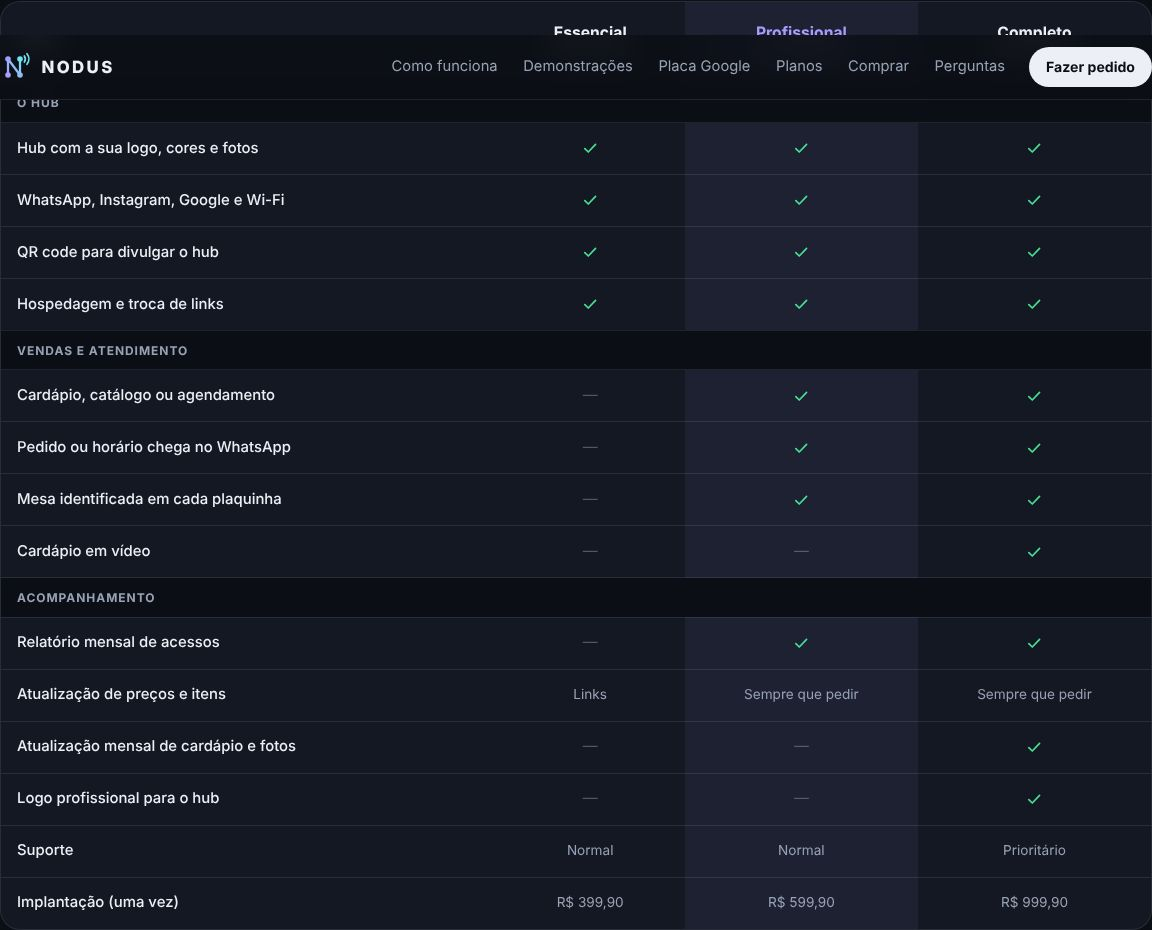
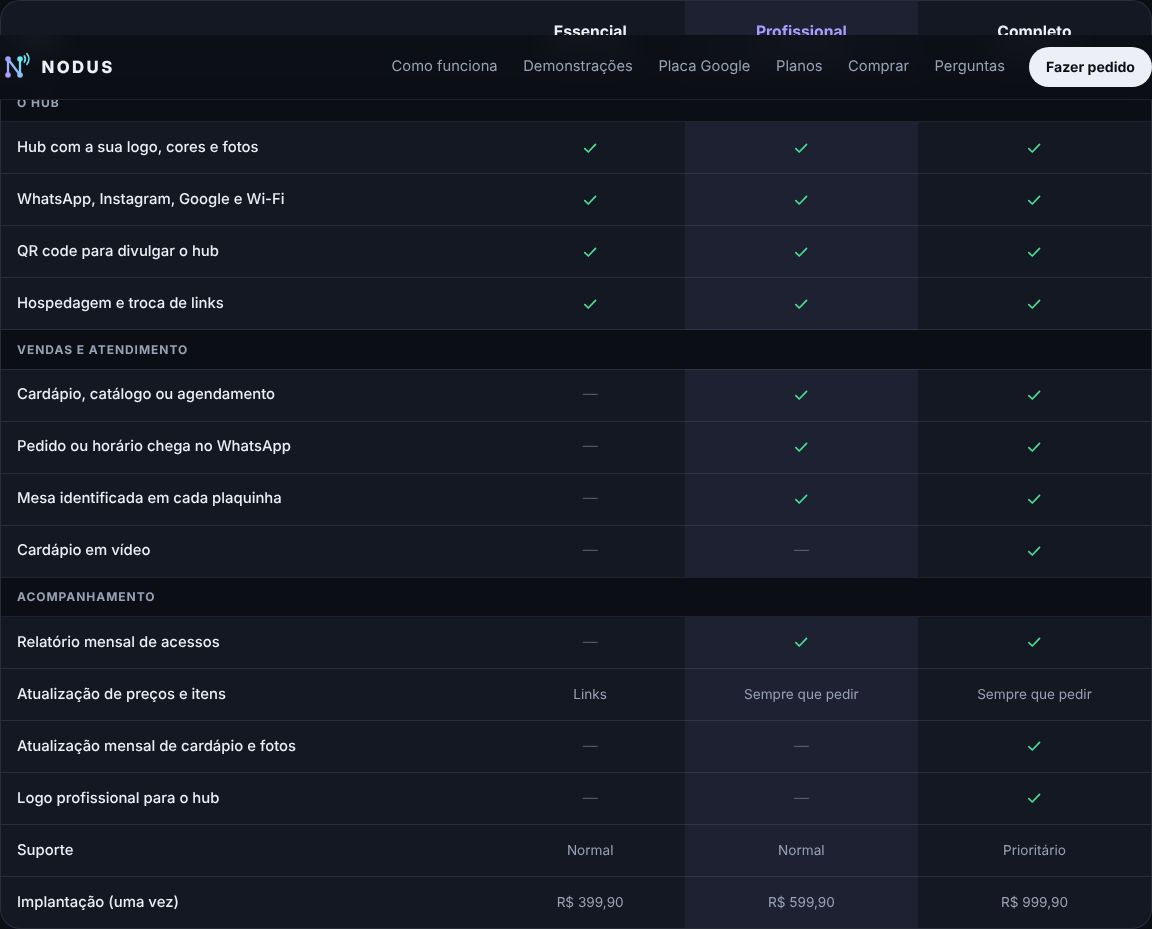
Remove a arte da plaquinha de mesa (arte ainda não finalizada)
Claude-Session: https://claude.ai/code/session_01SbL5BZc9wFFV6NVM2izEHm

diff --git a/index.html b/index.html
@@ -232,13 +232,7 @@ p{margin:0}
 .placa-g .lista svg{color:var(--ok)}
 .placa-g .preco-p{margin-top:1.6rem;font-size:1.05rem}
 .placa-g .preco-p b{white-space:nowrap;font-size:1.6rem;letter-spacing:-.02em;font-variant-numeric:tabular-nums}
-.placa-g .mesa-b{margin-top:4.5rem;padding-top:4rem;border-top:1px solid var(--linha);grid-template-columns:minmax(0,1.1fr) minmax(0,.9fr)}
-.foto-mesa{margin:0;border-radius:.9rem;overflow:hidden;box-shadow:0 24px 60px rgba(0,0,0,.5),0 0 0 1px rgba(255,255,255,.08);background:#fffdf0}
-.foto-mesa img{width:100%;height:auto;display:block}
-.mesa-b h3{font-size:clamp(1.4rem,3vw,1.9rem);margin-top:.5rem;letter-spacing:-.02em}
-.mesa-b p{color:var(--mudo);margin-top:.8rem;font-size:1.02rem;max-width:32rem}
-.mesa-b .preco-m{color:var(--texto);font-weight:600}
-@media(max-width:860px){.placa-g .miolo{grid-template-columns:1fr;gap:2.5rem}.vitrine{order:-1}.placa-g .mesa-b{margin-top:3rem;padding-top:3rem;gap:1.8rem}}
+@media(max-width:860px){.placa-g .miolo{grid-template-columns:1fr;gap:2.5rem}.vitrine{order:-1}}
 
 .rodape{border-top:1px solid var(--linha);padding-block:2.2rem calc(2.2rem + env(safe-area-inset-bottom,0px));color:var(--mudo);font-size:.88rem}
 .rodape .miolo{display:flex;flex-wrap:wrap;gap:1rem 2rem;align-items:center;justify-content:space-between}
@@ -345,16 +339,6 @@ p{margin:0}
       <div class="vitrine">
         <div class="foto-placa" id="fotoPlaca"></div>
         <div class="cores" role="group" aria-label="Cor da placa" id="cores"></div>
-      </div>
-    </div>
-    <div class="miolo mesa-b">
-      <figure class="foto-mesa"><img src="img/plaquinha-mesa.jpg" alt="Arte da plaquinha de mesa: QR code à esquerda, espaço para a logo do estabelecimento e atalhos para Menu, Presentes, Wi-Fi e Feedback" loading="lazy" width="942" height="466"></figure>
-      <div>
-        <span class="rot">Plaquinha de mesa · 5 x 10 cm</span>
-        <h3>Uma em cada mesa, com a sua logo</h3>
-        <p>O cliente lê o código e abre o hub da casa já com o número da mesa: cardápio, Wi-Fi e opinião sem precisar chamar o garçom. A arte leva a logo e as cores do seu negócio.</p>
-        <p class="preco-m">Valor por quantidade, combinado depois do pedido.</p>
-        <div class="acoes"><a class="btn btn-s" href="#comprar" id="addMesa">Quero para as mesas</a></div>
       </div>
     </div>
   </section>
@@ -598,7 +582,6 @@ const DEMOS = [
   $("#cExtras").innerHTML = EXTRAS.map(x => `<div class="extra"><div><b>${esc(x.nome)}</b><small>${esc(x.desc)}</small><small class="v">${esc(x.rotulo)}</small></div><div class="step"><button type="button" data-x="${x.id}" data-d="-1" aria-label="Menos ${esc(x.nome)}">−</button><output id="q-${x.id}">0</output><button type="button" data-x="${x.id}" data-d="1" aria-label="Mais ${esc(x.nome)}">+</button></div></div>`).join("");
   $("#cExtras").addEventListener("click", e => { const b = e.target.closest("[data-x]"); if (!b) return; qtd[b.dataset.x] = Math.max(0, Math.min(99, qtd[b.dataset.x] + +b.dataset.d)); calcular(); });
   $("#addPlaca").addEventListener("click", () => { if (!qtd.google) { qtd.google = 1; calcular(); } });
-  $("#addMesa").addEventListener("click", () => { if (!qtd.plaquinha) { qtd.plaquinha = 1; calcular(); } });
   document.querySelectorAll("[data-plano]").forEach(a => a.addEventListener("click", () => { const r = document.querySelector(`input[name=plano][value="${a.dataset.plano}"]`); if (r) { r.checked = true; calcular(); } }));
   const cf = $("#cfg");
   cf.addEventListener("input", calcular); cf.addEventListener("change", calcular); cf.addEventListener("submit", e => e.preventDefault());
